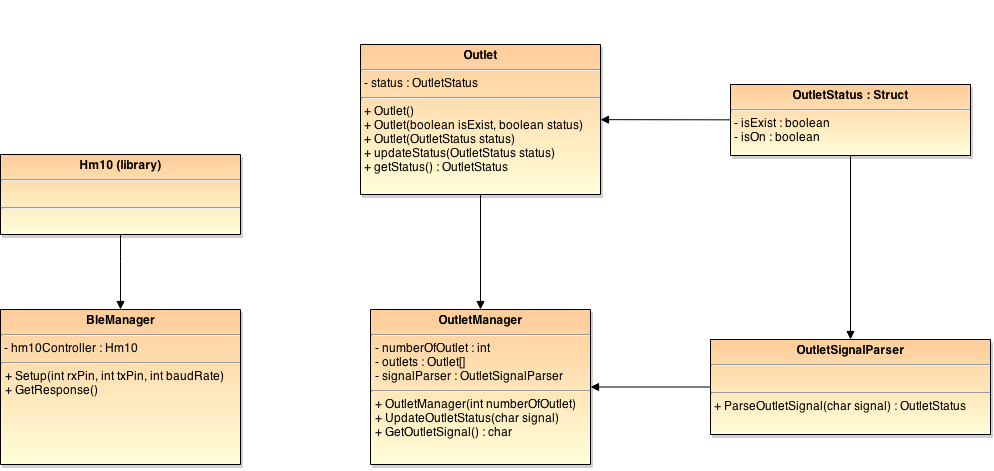
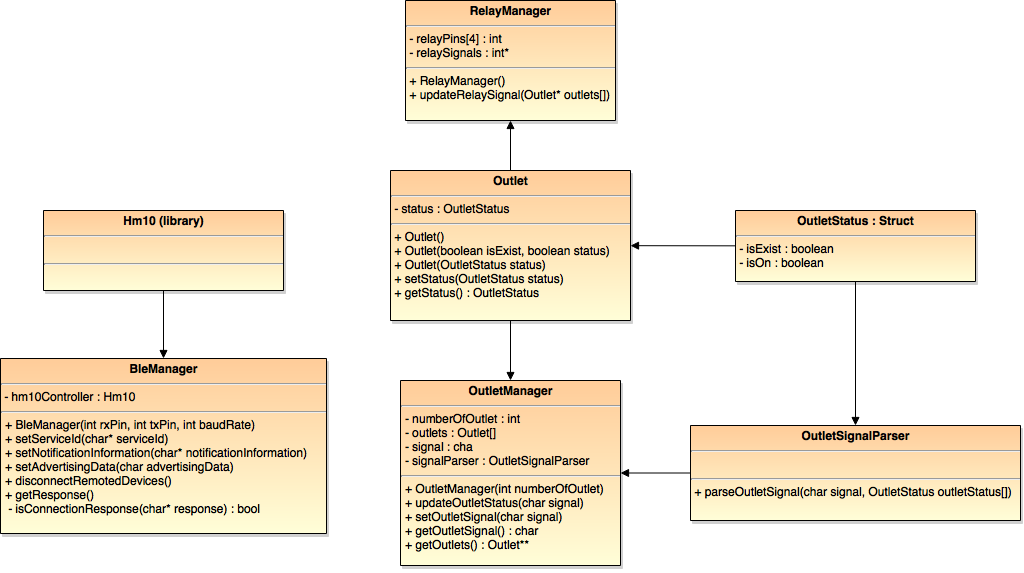
Update: correct class and update class diagram

diff --git a/src/project_a_hm_10/BleManager.cpp b/src/project_a_hm_10/BleManager.cpp
@@ -3,33 +3,33 @@
 #include <Arduino.h>
 
 BleManager::BleManager(int rxPin, int txPin, int baudRate) {
-  this->hm10 = new Hm10(rxPin, txPin);
+  this->hm10Controller = new Hm10(rxPin, txPin);
 }
 
 void BleManager::setServiceId(char* serviceId) {
   Serial.print("Set Service ID, Receive: ");
-  char* result = this->hm10->setServiceId(serviceId);
+  char* result = this->hm10Controller->setServiceId(serviceId);
   Serial.print(result);
   Serial.print("\n\n");
 }
 
 void BleManager::setNotificationInformation(char* notificationInformation) {
   Serial.print("Set Notification Information, Receive: ");
-  char* result = this->hm10->setNotificationInformation(notificationInformation);
+  char* result = this->hm10Controller->setNotificationInformation(notificationInformation);
   Serial.print(result);
   Serial.print("\n\n");
 }
 
 void BleManager::setAdvertisingData(char advertisingData) {
   Serial.print("Set Advertising Data, Receive: ");
-  char* result = this->hm10->setAdvertisingDataFlag(advertisingData);
+  char* result = this->hm10Controller->setAdvertisingDataFlag(advertisingData);
   Serial.print(result);
   Serial.print("\n\n");
 }
 
 void BleManager::disconnectRemotedDevices() {
   Serial.print("Disconnect to remoted devices, Receive: ");
-  char* result = hm10->sendTestCommand();
+  char* result = this->hm10Controller->sendTestCommand();
   Serial.print(result);
   Serial.print("\n\n");
 }
@@ -39,27 +39,27 @@ char BleManager::getResponse() {
   char response = 0;
   do {
     response = 0;
-    responses = this->hm10->getResponse();
-    
-    if(this->isConnectionResponse(responses) &&
+    responses = this->hm10Controller->getResponse();
+
+    if(this->isConnectStatusString(responses) &&
        responses[7] != 0) {
       response = responses[7];
-    } 
-    
-    if(!this->isConnectionResponse(responses))
+    }
+
+    if(!this->isConnectStatusString(responses))
     {
       response = responses[0];
     }
-    
-    
-    
+
+
+
     delay(1000);
   } while(response == 0);
-  
+
   return response;
 }
 
-bool BleManager::isConnectionResponse(char* response) {
+bool BleManager::isConnectStatusString(char* response) {
   if(strncmp(response, "OK+CONN", 7) == 0 ||
      strncmp(response, "OK+LOST", 7) == 0) {
      return true;

diff --git a/src/project_a_hm_10/BleManager.h b/src/project_a_hm_10/BleManager.h
@@ -4,9 +4,6 @@
 #define BLE_MANAGER_H
 
 class BleManager {
-  private:
-    Hm10* hm10;
-    bool isConnectionResponse(char* response);
   public:
     BleManager(int rxPin, int txPin, int baudRate);
     void setServiceId(char* serviceId);
@@ -14,6 +11,9 @@ class BleManager {
     void setAdvertisingData(char advertisingData);
     void disconnectRemotedDevices();
     char getResponse();
+  private:
+    Hm10* hm10Controller;
+    bool isConnectStatusString(char* response);
 };
 
 #endif
